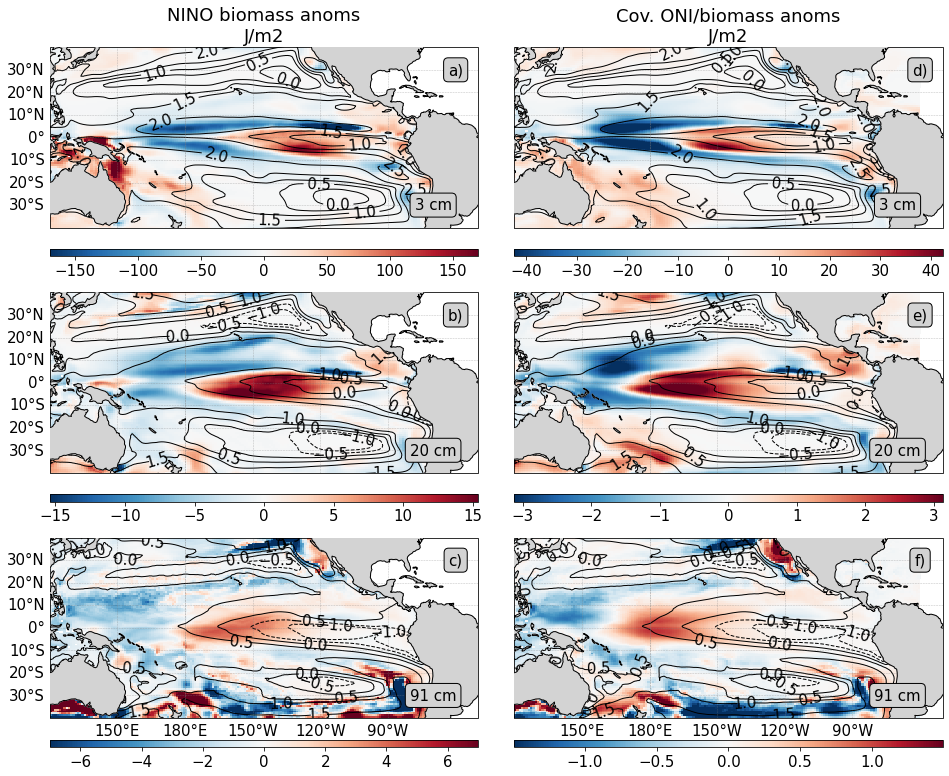
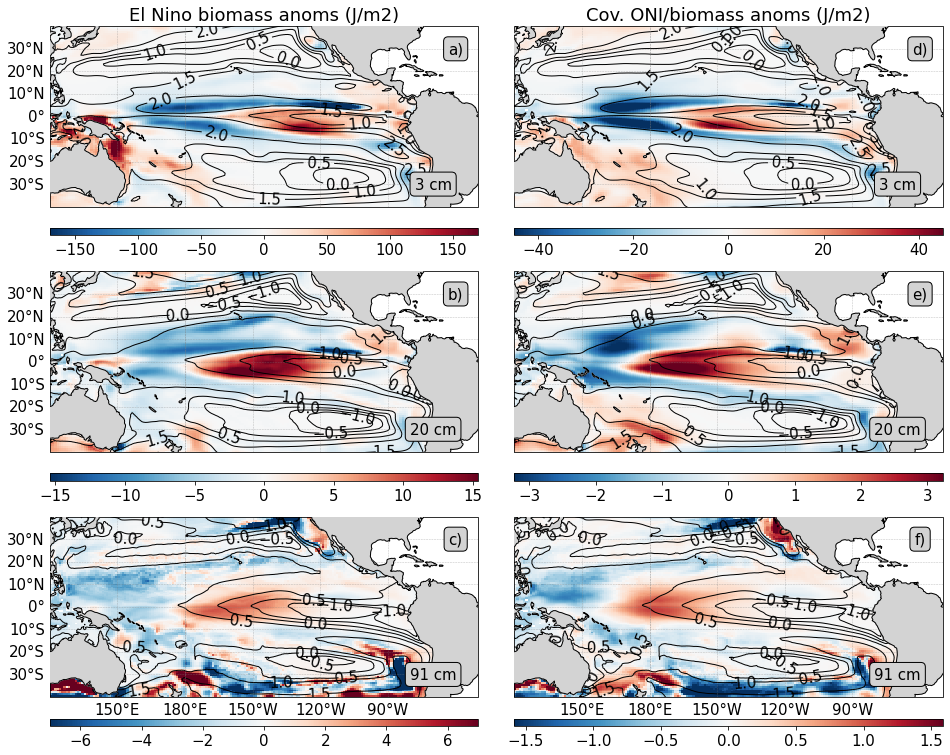
Update figure (solid lines)

diff --git a/scripts/new-97/plot_maps_mean_anom_ond.py b/scripts/new-97/plot_maps_mean_anom_ond.py
@@ -160,6 +160,7 @@ def manage_axes(gl, cpt):
 plt.rcParams['font.size'] = 15
 textprops = {}
 textprops.update(ha='center', va='center', transform=proj, bbox=dicttext, zorder=2000)
+plt.rcParams['contour.negative_linestyle'] = 'solid'
 
 step = 0.5
 levels = np.arange(-1, 3 + step, step)
@@ -249,7 +250,7 @@ for l in range(3):
     cb = cbax.colorbar(cs)
     if l == 0:
         #cb.set_label('97-OND biomass anoms (J/m2)')
-        ax.set_title('NINO biomass anoms\nJ/m2')
+        ax.set_title('El Nino biomass anoms (J/m2)')
     manage_axes(gl, cpt)
     
     cpt += 1
@@ -271,6 +272,7 @@ for l in range(3):
     temp = cov.isel(l=l)
     ltemp = float(temp.l)
     temp = temp.to_masked_array()
+    temp = np.ma.masked_where(tmask_noatl==0, temp)
     
     ccc = np.percentile(np.abs(np.ravel(temp[temp.mask == False])), 98)
     print('ccc = ', ccc)
@@ -293,7 +295,7 @@ for l in range(3):
     cb = cbax.colorbar(cs)
     if(l == 0):
         #cb.set_label('Cov. ONI/biomass anoms (J/m2)')
-        ax.set_title('Cov. ONI/biomass anoms\nJ/m2')
+        ax.set_title('Cov. ONI/biomass anoms (J/m2)')
     manage_axes(gl, cpt)
     
     cptlet += 1
